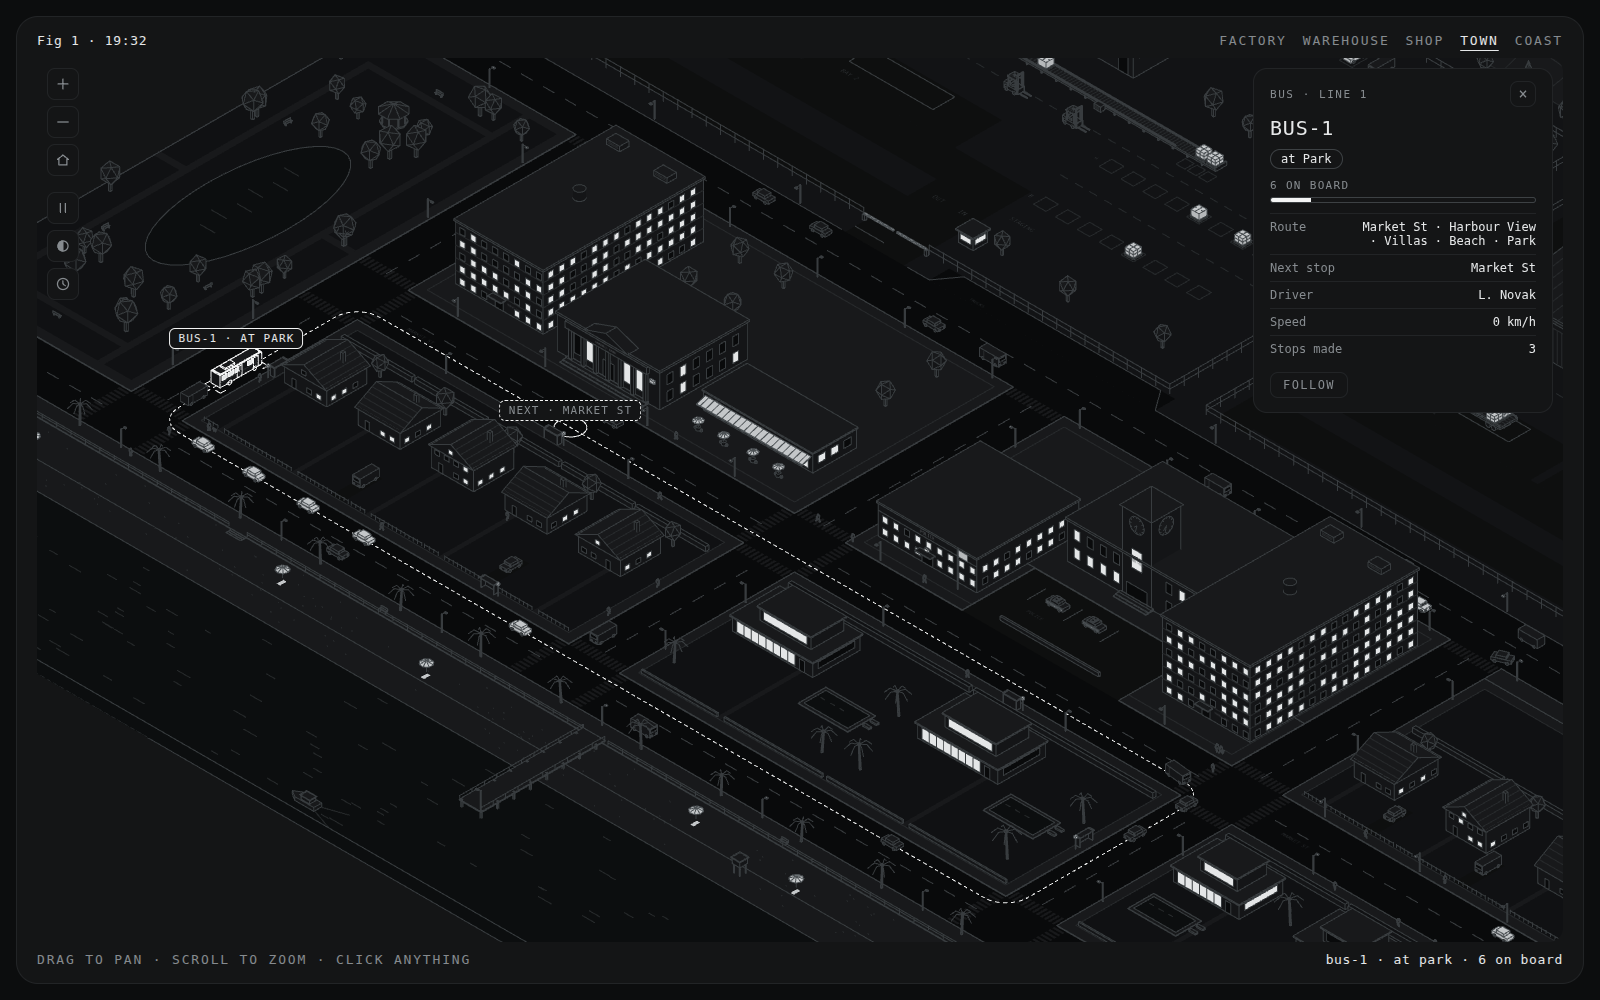
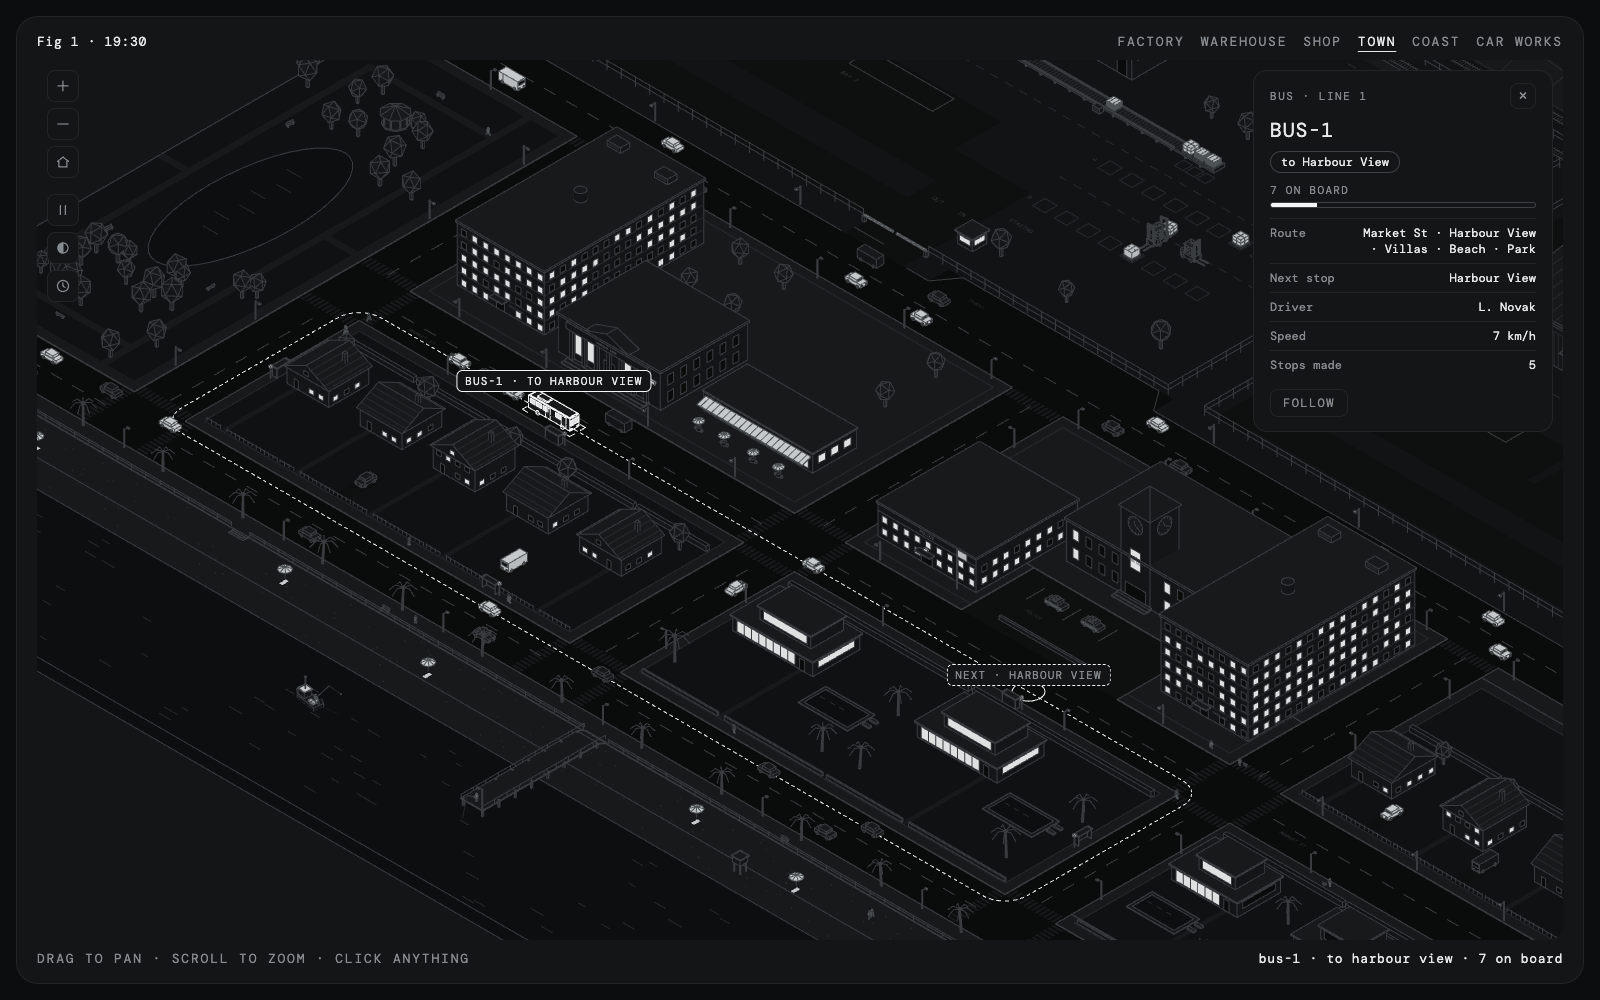
Bring the README up to date, with new figures
The README now describes the whole town as it is: the shop on the
seafront, the warehouse's racks and pickers, homes you can look inside,
online orders and the courier, the bank siege, Sunset Pier, fishing,
weather, the fire station, Car Works and the freight train. It also
covers the card buttons, the night frame and every debug hook. Fig 1 is
recaptured from the built site, and a second figure shows Car Works'
body shop opened up. The project guide records the finished roadmap.

diff --git a/README.md b/README.md
@@ -31,7 +31,7 @@ To build the site, run `npm run build`. It writes plain HTML and JS to `out/`, s
 | `yard/kernel/` | The iso projection, `Part` (boxes, faces, hairlines, text), `Path`, the corridor graph and the seeded random numbers |
 | `yard/theme.ts` | Tokens → materials, and the day/night blend |
 | `yard/models/`, `yard/world/` | Vehicles, people, boats, and the static town |
-| `yard/sim/` | The simulation: clock, traffic, trucks, forklifts, people, the shop, the police |
+| `yard/sim/` | The simulation: clock, traffic, trucks, forklifts, people, homes, the shop and its courier, the police, the fire station, the pier, fishing, weather, Car Works and the train |
 | `yard/view.ts` | Camera, selection, card, routes, peeking into buildings, the frame loop, keys |
 | `yard/index.ts` | Builds everything in a fixed order and starts the view |
 
@@ -41,59 +41,69 @@ The engine runs once per page load. React draws the plate, and the engine drives
 
 | Place | What's there |
 | --- | --- |
-| **Factory** | Plant 01, its conveyor, staging, two loading bays, and a truck park for flatbeds waiting for a free bay |
-| **Warehouse** | Warehouse 01 with racks and a loading lane, two docks, a sliding gate and its guard |
+| **Factory** | Plant 01, its conveyor, staging, two loading bays, a truck park for flatbeds waiting for a free bay, and the rail loading platform |
+| **Warehouse** | Warehouse 01: two rows of racks three levels high, shelving with a packing bench and pickers, a loading lane, two docks, and a sliding gate with its guard |
 | **Shop** | Corner Market on the seafront, where Hill Av meets Coast Rd: its delivery lay-by, a zebra crossing, and parking bays across the road on the promenade |
-| **Town** | Four kinds of block:<ul><li>flats, Harbour Bank and Café Mira</li><li>the police station and Town Hall, whose clock tells the simulated time</li><li>houses with gardens</li><li>villas with pools</li></ul>Mill Park lies on the west side. Riverside Fire Station stands on Riverside Rd by the roundabout, with ENG-1 in its bay. |
+| **Town** | Flats, Harbour Bank, Café Mira, the police station, Town Hall (whose clock tells the simulated time), houses with gardens and villas with pools. Orchard Lane, a new street of six houses, runs off the roundabout. Riverside Fire Station stands on Riverside Rd with ENG-1 in its bay. Mill Park lies on the west side. |
 | **Car Works** | A car factory on a terrace cut into the hills behind the warehouse, its lot of finished cars in front. Inside, one line runs through a press shop, a body shop of welding robots, a paint shop, assembly and the end-of-line tests. |
 | **Railway** | One track along the foot of the hills, with a loop through the Plant 01 yard and its loading platform |
-| **Coast** | Coast Rd, the promenade, the beach, the pier, and a breakwater with a lighthouse, with a sailboat and a motorboat out at sea |
+| **Coast** | Coast Rd, the promenade, the beach, the town pier, Sunset Pier with its rides, and a breakwater with a lighthouse. A sailboat, a motorboat and the fishing boat Kestrel are out at sea. |
 
 ## What moves
 
-1. **Plant 01:** a pallet leaves the factory on Line A every 34 s. Forklifts FL-01 to FL-03 load the flatbed waiting at a bay.
+1. **Plant 01:** a pallet leaves the factory on Line A every 26 s. Forklifts FL-01 to FL-03 load the train while it stands at the platform, then the flatbed waiting at a bay, and otherwise clear the belt into staging.
 2. **Flatbeds (TRK-2051 to TRK-2053):** the three trucks share two bays and two docks.
    - A loaded truck waits at its bay until a dock is free, then crosses the road.
    - It goes round the roundabout, and the guard opens the warehouse gate.
    - On the way back it waits in the truck park until a bay is free.
-3. **Warehouse 01:** forklifts FL-04 to FL-06 unload the flatbeds into the racks. They load the covered box trucks from the rear, in the loading lane.
-4. **Box trucks (DLV-01 to DLV-03):** they carry four pallets down Hill Av to the shop, open their rear doors in the lay-by, and four staff carry the boxes in. They go back along Coast Rd and up Harbour Av, and cross Riverside Rd straight into the warehouse gate.
+3. **Warehouse 01:** forklifts FL-04 to FL-06 unload the flatbeds into the racks, lifting to the top level with a telescoping mast. They load the box trucks from the rear in the loading lane. Two pickers carry parts from the shelving to the packing bench.
+4. **Box trucks (DLV-01 to DLV-03):** they carry four pallets down Hill Av to the shop, open their rear doors in the lay-by, and staff carry the boxes in. They go back along Coast Rd and up Harbour Av, and cross Riverside Rd straight into the warehouse gate.
 5. **Shoppers:** they walk in down Hill Av or along the promenade, or drive in, park in the bays on the seafront and cross at the zebra. They take boxes off the shelves, pay and leave.
-6. **Traffic:**
+6. **Online orders (PKG-1):** now and then a home orders from Corner Market.
+   - A shop assistant picks the boxes, packs the parcel and carries it over the zebra to the parcel van.
+   - PKG-1 drives to the house by the shortest way and pulls in at the kerb, and the courier walks it to the door.
+   - The home's card shows the order with an arrival time and a Track parcel button. The camera then follows the van, and its card shows the order's timeline.
+7. **Traffic:**
    - Cars pass through on Riverside Rd and Coast Rd.
    - Town cars loop round the blocks and give way where they join a busier street.
    - **The bus (BUS-1)** runs Line 1 round the southern blocks. It stops at five shelters, where people get off and queue to board.
-7. **People:**
-   - They walk the pavements from home to home, to the beach, the park, the café or the pier.
-   - They wait at the kerb for a gap before crossing, and traffic stops for anyone on the road.
-   - Some jog, and some walk a dog.
+8. **People:**
+   - They walk the pavements from home to home, to the beach, the park, the café, the bank, the piers or the fair. They wait at the kerb for a gap, and traffic stops for anyone on the road.
+   - Each has an outfit that suits who they are, from shoppers and staff to police, firefighters and line workers. Arms swing as they walk, and they sit at café tables and on benches. Some jog, and some walk a dog.
    - There are fewer people out at night, and fewer shoppers.
-8. **The bank job:**
-   - Now and then a man in a dark hood gets off near the park and walks to Harbour Bank. He forces the door, and the alarm goes off.
-   - Both police cars leave the yard with their lights flashing. Officers get out and chase him on foot.
-   - Usually they make an arrest and walk him to the car. If he reaches the end of the promenade first, he gets away.
-9. **Car Works:**
-   - Every 14 s the line moves on one station. Steel blanks come off the coils and are pressed into panels. Robots weld the underbody, frame the sides, respot the shell and hang the doors.
-   - The body is dipped and painted chalk white or slate. In assembly it rides a hanger, the powertrain rises into it, and robots fit the wheels and glass.
-   - At the end of the line come the fluids, a lights test, a rolling road and the light tunnel. Then the car drives out to the lot.
-   - Click any car on the line to see its VIN, model, colour, station and how far built it is, with the rest of its way dashed. The factory's card has a Follow a new car button, which follows one from the press shop all the way to the lot.
-   - A full lot stops the line until the train takes cars away.
-10. **The freight train (FRT-7):**
-   - Every few minutes it comes in from the east: a locomotive, four flat wagons and three car carriers.
-   - At Car Works it stops alongside the lot, and a ramp is lowered behind it. Up to twelve finished cars back out of their spaces, drive round and up onto the carriers.
-   - It runs on into the loop in the Plant 01 yard. Plant 01's forklifts load pallets onto the flat wagons, after any waiting flatbed and before clearing the belt.
-   - Then it leaves to the west, taking cars and pallets out of town. Click it for its load and next stop.
-11. **Chimney fires:**
-   - Every so often a chimney catches. Smoke and flames rise from the stack, and whoever is home comes out onto the pavement.
-   - A neighbour calls it in. The bell goes at Riverside Fire Station, the bay door rolls up, the watch runs to ENG-1, and it drives out with its lights flashing.
-   - At the kerb the officer takes the gate and the driver the pump, while two firefighters run a hose up the garden path and put a jet on the chimney until it is out.
-   - They make up the hose, the household goes back in, and ENG-1 drives home and backs into its bay while the traffic waits.
-   - The house's card shows the fire and has a Track ENG-1 button; the station's card shows the watch and the last call.
+9. **Homes:** every house and villa can be looked inside. Its rooms are furnished, and whoever is home is on the sofa, at the table or in bed, depending on the hour. Delivered parcels wait inside the door.
+10. **The bank job:**
+    - Now and then a man in a dark hood cases Harbour Bank, goes in, makes for the vault, and the alarm goes off. Staff and customers get out.
+    - Both police cars come with their lights flashing. Four officers surround the bank, at the front door either side, the back and the east wall.
+    - Click the bank, the suspect or an officer to see inside. Usually, after a stand-off, two officers go in and bring him out. If he reaches the back door first, there is a chase, and he may get away.
+11. **Sunset Pier:** a pleasure pier with a Ferris wheel, a carousel and a small coaster. Visitors queue, ride and wander. The rides open 10:00–23:00 and close in the rain.
+12. **Fishing:** Kestrel leaves the town pier in the morning, fishes on the bay and lands her catch, which shows on her card. An angler fishes from the end of the town pier.
+13. **Weather:** showers come through the day, and some mornings there is sea fog. People put up umbrellas and leave the beach, the park and the piers, the boats come in, and the caption says so.
+14. **Car Works:**
+    - Every 18 s the line moves on one station. Steel blanks come off the coils and are pressed into panels. Robots weld the underbody, frame the sides, respot the shell and hang the doors.
+    - The body is dipped and painted chalk white or slate. In assembly it rides a hanger, the powertrain rises into it, and robots fit the wheels and glass.
+    - At the end of the line come the fluids, a lights test, a rolling road and the light tunnel. Then the car drives out to the lot.
+    - Click any car on the line to see its VIN, model, colour, station and how far built it is, with the rest of its way dashed. The factory's card has a Follow a new car button, which follows one from the press shop all the way to the lot.
+    - A full lot stops the line until the train takes cars away.
+
+    ![Car Works opened up: the body shop's welding robots either side of the line, a car selected at the respot station with the rest of its way dashed, shells riding the overhead buffer, and the freight train passing below](docs/car-works.png)
+
+15. **The freight train (FRT-7):**
+    - Every few minutes it comes in from the east: a locomotive, four flat wagons and three car carriers.
+    - At Car Works it stops alongside the lot, and a ramp is lowered behind it. Up to twelve finished cars back out of their spaces, drive round and up onto the carriers.
+    - It runs on into the loop in the Plant 01 yard, where the forklifts load pallets onto the flat wagons. Then it leaves to the west.
+16. **Chimney fires:**
+    - Every so often a chimney catches. Smoke and flames rise from the stack, and whoever is home comes out onto the pavement.
+    - A neighbour calls it in. The bell goes at Riverside Fire Station, the bay door rolls up, the watch runs to ENG-1, and it drives out with its lights flashing.
+    - At the kerb the officer takes the gate and the driver the pump, while two firefighters run a hose up the garden path and put a jet on the chimney until it is out.
+    - They make up the hose, the household goes back in, and ENG-1 drives home and backs into its bay while the traffic waits.
+    - The house's card shows the fire and has a Track ENG-1 button. The station's card shows the watch and the last call.
 
 Each stage only runs as fast as the next one lets it:
 - A full shop keeps the box trucks waiting at the warehouse.
 - Full racks keep the flatbeds at the docks.
 - A full belt holds the production line.
+- A full lot holds the car line until the train comes.
 
 ## Controls
 
@@ -110,6 +120,8 @@ Each stage only runs as fast as the next one lets it:
 | Pause | ❚❚ button | `Space` |
 | Light / dark | ◐ button | `T` |
 
+Some cards have buttons: Look inside on buildings and homes, Track on an order or a fire, Follow ENG-1 at the fire station, and Follow a new car at Car Works.
+
 When something that moves is selected, the map draws its route as a dashed line and rings its next stop:
 - Trucks and the bus show their whole loop.
 - Cars, forklifts and people show the way ahead.
@@ -124,9 +136,9 @@ ai-iso-skill draws SVG figures with a small projection kernel. This page keeps t
 - **Same kernel.** `plane(O,U,V)`, `TOP`, `FRONT`, `SIDE` and `box(x,y,z,w,d,h)` keep their meanings. Doors, windows, ribs, road paint, zebras, signs, clock faces and text are drawn flat in a face's own 2D units and placed with that face's matrix.
 - **Hairlines.** Every edge is a `LineSegments2` exactly 1 CSS pixel wide at any zoom, the WebGL equivalent of `vector-effect: non-scaling-stroke`. Faces are flat, unlit and opaque, so the depth buffer hides lines behind them.
 - **Day and night.** Every colour is a CSS custom property, with one set for dark and one for light. Through the evening the materials slide toward a single night palette. Windows and lamps are two extra fills that light up as everything else darkens.
-- **Section drawings.** The warehouse and the shop each have a shell and a cut. The cut follows technical drawings: walls cut low and hatched on the cut, and the roof as an outline only.
-- **The look.** It uses two greys for lines and one `--live` colour, reserved for what is live: the selection and its route, a busy bay's lamp, a forklift's beacon, the police light bars, the bank alarm and the lighthouse beam. Goods and uniforms use the two-tone fill.
-- **The frame.** The page is a plate with `Fig 1` and the clock, the places, the instruction and a live readout in the four corners.
+- **Section drawings.** The warehouse, the shop, the bank, the fire station, Car Works and every home have a shell and a cut. The cut follows technical drawings: walls cut low and hatched on the cut, and the roof as an outline only.
+- **The look.** It uses two greys for lines and one `--live` colour, reserved for what is live: the selection and its route, a busy bay's lamp, a forklift's beacon, the police and fire light bars, the bank alarm, a chimney's flames, a welding robot's sparks and the lighthouse beam. Goods and uniforms use the two-tone fill.
+- **The frame.** The page is a plate with `Fig 1` and the clock (and `night`, `rain` or `fog` when it is), the places, the instruction and a live readout in the four corners. At night the whole page goes dark, even in the light theme, and the ◐ choice is remembered.
 
 three.js and the font are bundled with the site, so it runs without loading anything from elsewhere.
 
@@ -138,6 +150,10 @@ three.js and the font are bundled with the site, so it runs without loading anyt
   - `select(id)` and `screenOf(id)` pick something and give its position on screen.
   - `look(x, y, zoom)` and `view(i)` move the camera.
   - `all()` lists everything.
+  - `drawCalls()` draws one frame and counts its draw calls (it works in a hidden window too).
+  - `order(id)` places an online order now, for that home or any home.
+  - `robbery()` starts the bank job now, when the town is quiet.
+  - `weather(kind, seconds)` brings `'rain'`, `'fog'` or `'clear'`.
   - `fire(id)` starts a chimney fire now, at that house or any house.
   - `train()` brings the next train in now.
   - The `incident`, `sim`, `shop`, `bank`, `fireSys`, `worksSys` and `trainSys` state are there too.

diff --git a/AGENTS.md b/AGENTS.md
@@ -17,7 +17,7 @@ A live isometric seaside town drawn with three.js/WebGL in the hairline style of
 | Command | What it does |
 | --- | --- |
 | `npm install` | Installs dependencies. Needs Node 20 or later; Node 22 is used. |
-| `npm run dev` | Dev server on <http://localhost:3000>. On the owner's machine port 3000 is often taken by another app, so use `npm run dev -- --port 3100`. |
+| `npm run dev` | Dev server on <http://localhost:3000>. If another app holds port 3000, use `npm run dev -- --port 3100`. |
 | `npm run build` | Type check and static export to `out/`, because `next.config.ts` sets `output: 'export'`. There is no server and there are no API routes. |
 | `npm run preview` | Serves `out/`. |
 | `npm run check` | Scope and load-order check of `yard/`, since the ported modules skip type checking. Run it after every edit. It catches missing imports and "cannot access X before initialization" cycles. |
@@ -54,7 +54,7 @@ The React component and the engine share a contract: the engine finds the plate'
 - **Tones.** `n` is the normal body/deck. `k` is two-tone, for goods and uniforms. `l` (lamps) and `w` (windows) light up at night by themselves. `g` is glass, `gs` grass, `s` sand.
 - **Lines.** Every line is a 1 CSS px `LineSegments2`. Faces are flat, unlit and opaque.
 - **Colour.** Never hard-code colours in scene code; use tokens. `--live` is reserved for live state: the selection, the route, busy lamps, beacons, police lights, alarms and the lighthouse beam. `glow(group, on)` swaps a part's faces to the live fill.
-- **Draw calls.** Keep the default view at or below about 1.5k (`renderer.info.render.calls`; it was about 1,000–1,140 after the port). Merge static things into one `Part`. Give moving pieces their own group only when they animate. Far zoom (`TINY`) swaps people for a one-part "lite" model.
+- **Draw calls.** Keep the default view at or below about 1.5k (`renderer.info.render.calls`). It is about 1.3k quiet and up to about 1.5k with the train in and a fire on. Merge static things into one `Part`; things there are many of (pallets, parked cars) use the single-fill tones. Give moving pieces their own group only when they animate. Far zoom (`TINY`) swaps people for a one-part "lite" model.
 
 ## Simulation rules
 
@@ -153,10 +153,9 @@ Done:
 - Phase 11: FRT-7 (`yard/sim/train.ts`, `yard/models/train.ts`, `yard/world/rail.ts`, `RAIL` in `layout.ts`).
   - One `Path` (`RAIL_PATH`) from the east edge: along the foot of the hills, round the loop in the Plant 01 yard (fence gaps at its corners; the staff parking's north row and some trees gave way), and off the west edge. Vehicles stand on it by their `off` behind the front.
   - At Car Works (`S_WORKS`) cars come off the lot with `lot.take()` and a `Loader` backs each out (rear-led, like ENG-1) and drives it up the ramp to a carrier place. Loaded cars are drawn into the carrier (`carAlong`) unless followed.
-  - At Plant 01 (`S_PLANT`), `hooks.train.loadable()` lets `dispatch()` load the flat wagons (`LOC.wagon`, from the lane at `RAIL.lane` reached by the corridor R1–R0). The priority is flatbed, then train, then belt. It leaves when full or after 45 s with nothing in hand.
+  - At Plant 01 (`S_PLANT`), `hooks.train.loadable()` lets `dispatch()` load the flat wagons (`LOC.wagon`, from the lane at `RAIL.lane` reached by the corridor R1–R0). The priority is train, then flatbed, then belt; Plant 01 makes a pallet every 26 s so both get a share. It leaves when full or after 45 s with nothing in hand.
   - Pallets are four draw calls each (single-fill tones). Keep it so: the home view sits about 1.3–1.47k with the train in.
 
-Next:
-12. README, debug hooks, push to `main`.
+- Phase 12: the README covers everything above; `docs/factory-yard.png` and `docs/car-works.png` are captured from the static build (no dev badge) at 1600 × 1000.
 
-The full plan is in the owner's `~/.claude/plans/` file for this work. A shared road router (`ROADNET`), card `actions`, and a peek helper are planned infrastructure for phases 3–10.
+The roadmap agreed in October 2026 is done. The full plan is in the owner's `~/.claude/plans/` file for this work.
